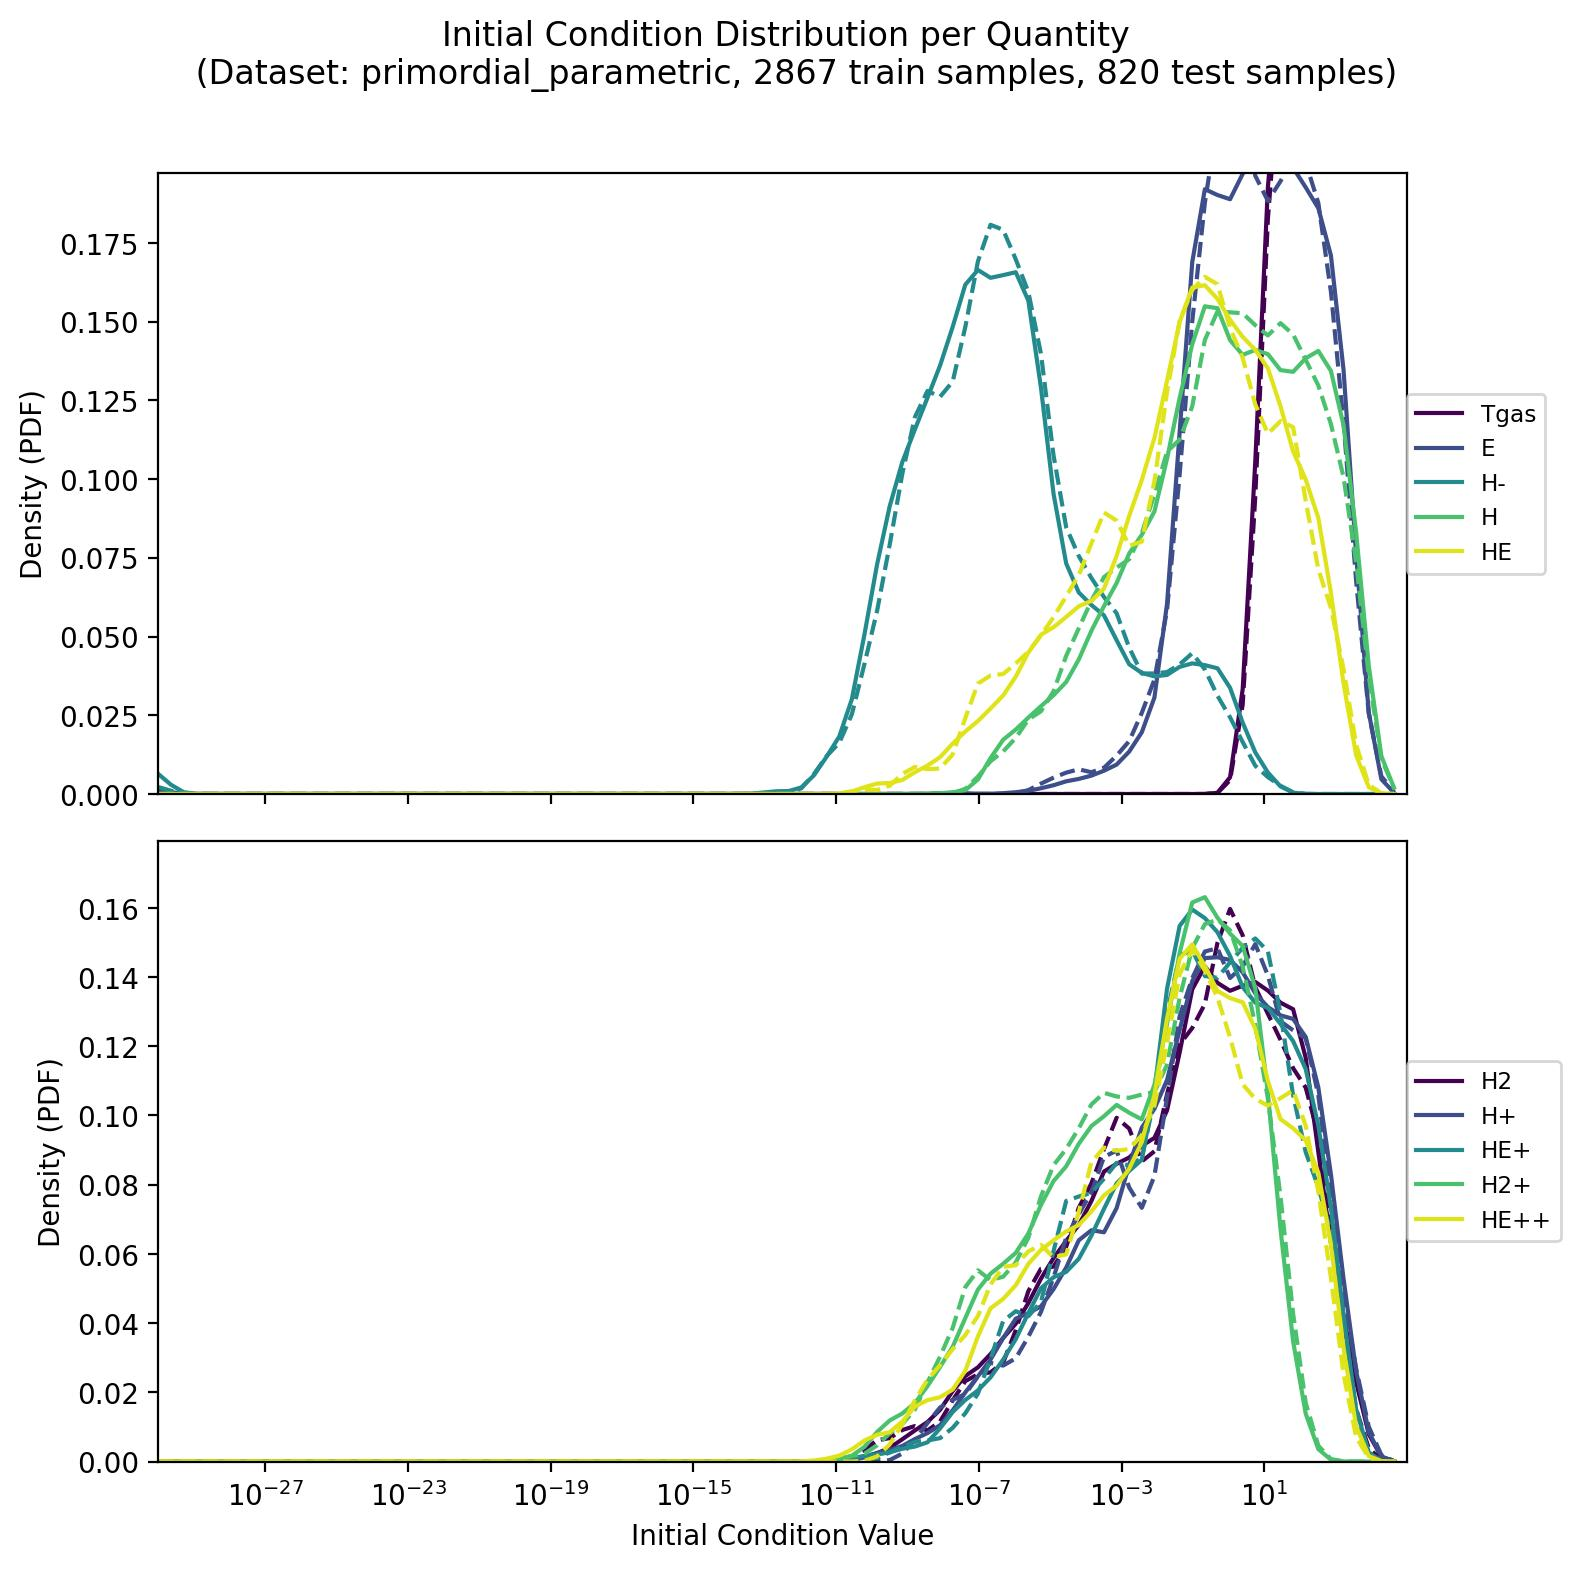
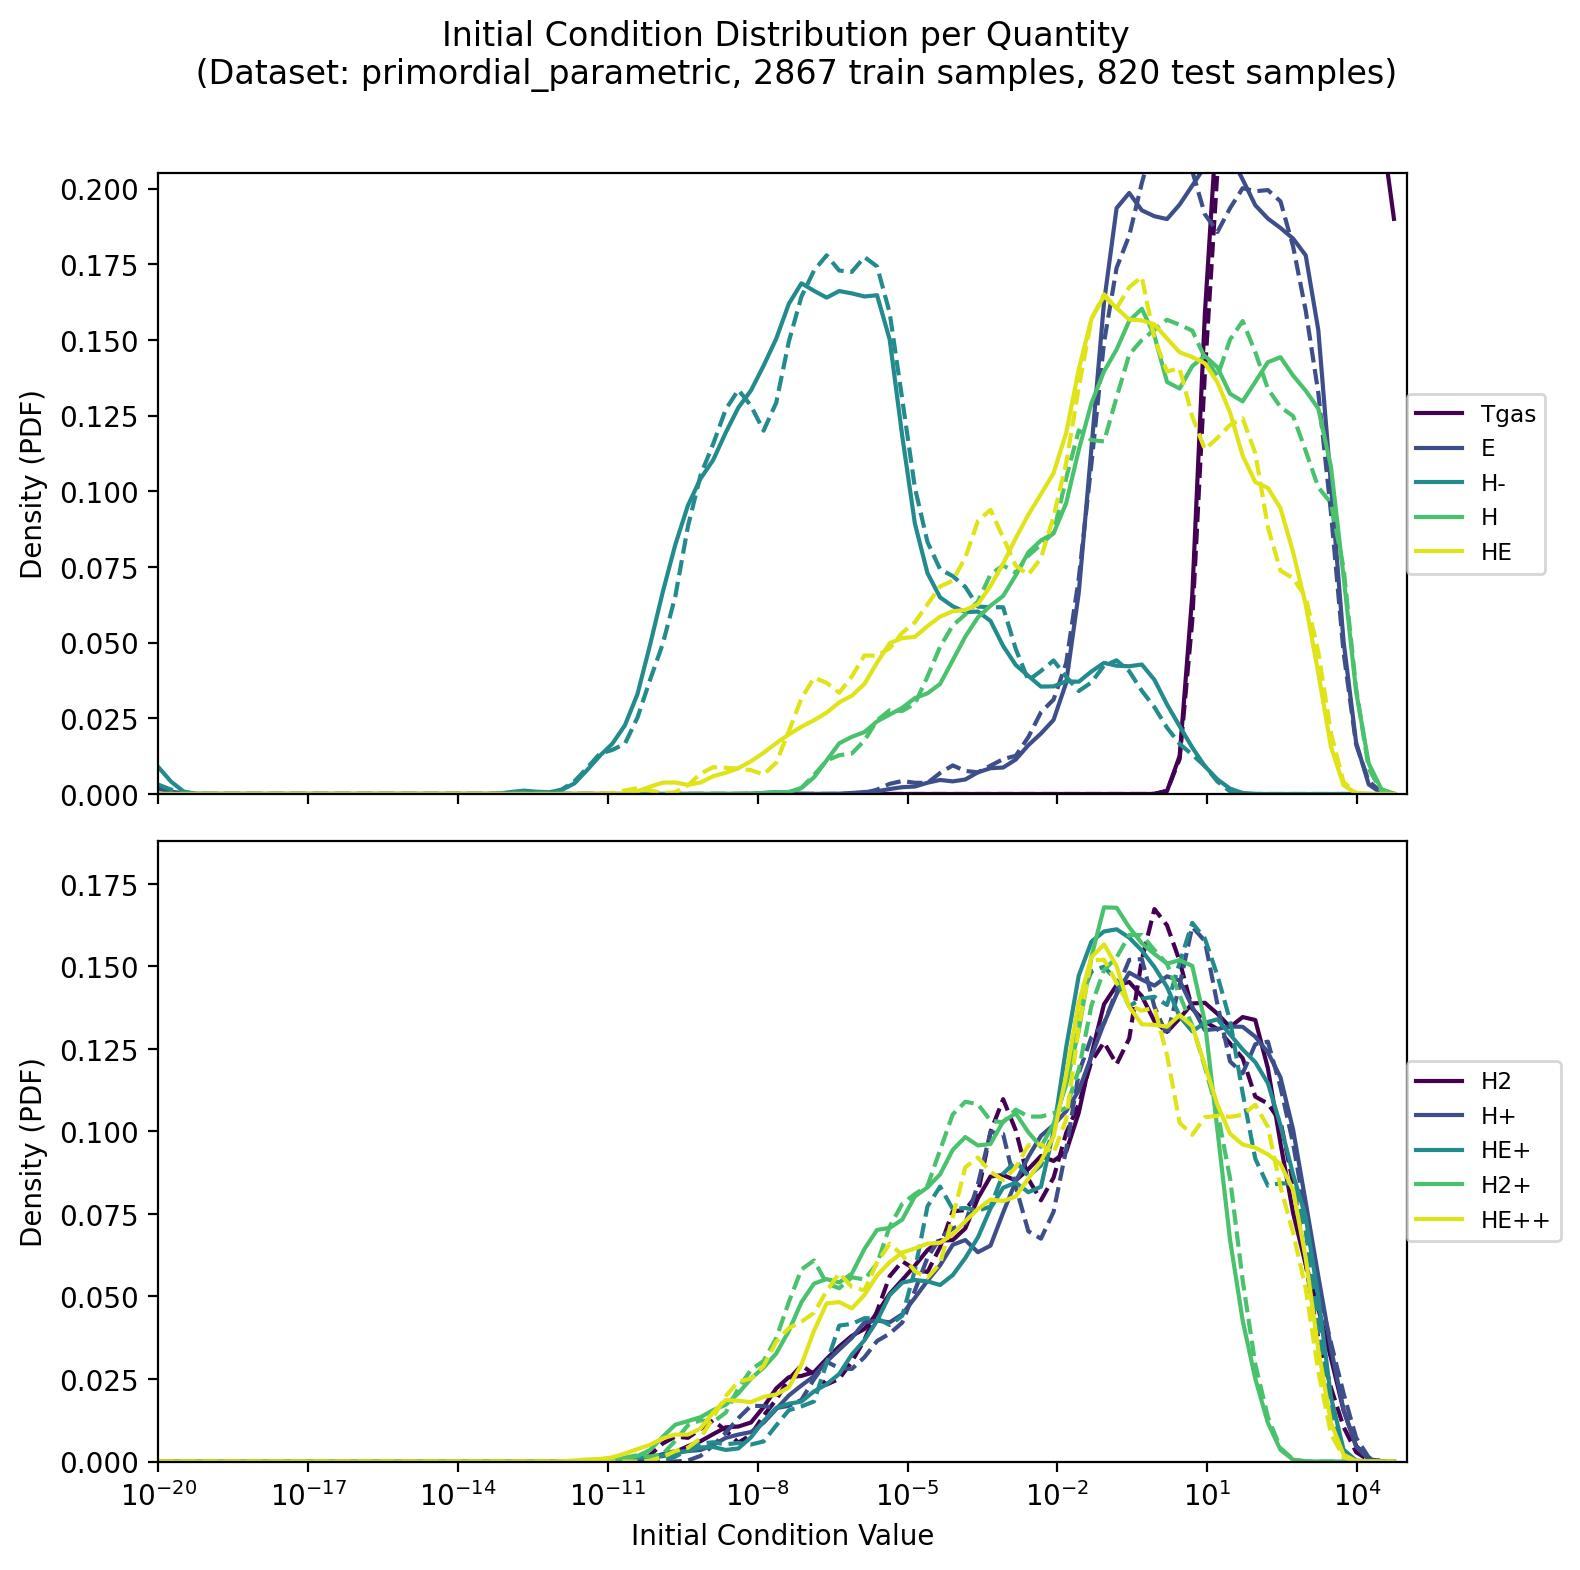
Clean up dataset visualisations, add lv_parametric dataset variants

diff --git a/datasets/_data_analysis/analyse_all_datasets.py b/datasets/_data_analysis/analyse_all_datasets.py
@@ -33,9 +33,10 @@ def main():
     Main function to analyse the dataset. It checks the dataset and loads the data.
     """
     datasets = [
+        "lv_parametric",
+        "lv_parametric_no_params",
         "primordial_parametric",
         "primordial",
-        "lv_parametric",
         "simple_reaction",
         "osutest2",
         "coupled_oscillators",
@@ -122,7 +123,7 @@ def main():
                 full_data,
                 labels,
                 max_quantities=10,
-                threshold=2,
+                threshold=4,
                 max_faulty=5,
                 quantities_per_plot=qpp,
             )

diff --git a/datasets/_data_analysis/dataset_dict.py b/datasets/_data_analysis/dataset_dict.py
@@ -54,18 +54,23 @@ dataset_dict = {
     "primordial": {
         "log": True,
         "qpp": 5,
-        "tol": 1e-30,
+        "tol": 1e-20,
         "log_time": True,
     },
     "lv_parametric": {
         "log": True,
         "qpp": 3,
-        "tol": 1e-30,
+        "tol": 1e-20,
+    },
+    "lv_parametric_no_params": {
+        "log": True,
+        "qpp": 3,
+        "tol": 1e-20,
     },
     "primordial_parametric": {
         "log": True,
         "qpp": 5,
-        "tol": 1e-30,
+        "tol": 1e-20,
         "log_time": True,
     },
 }
